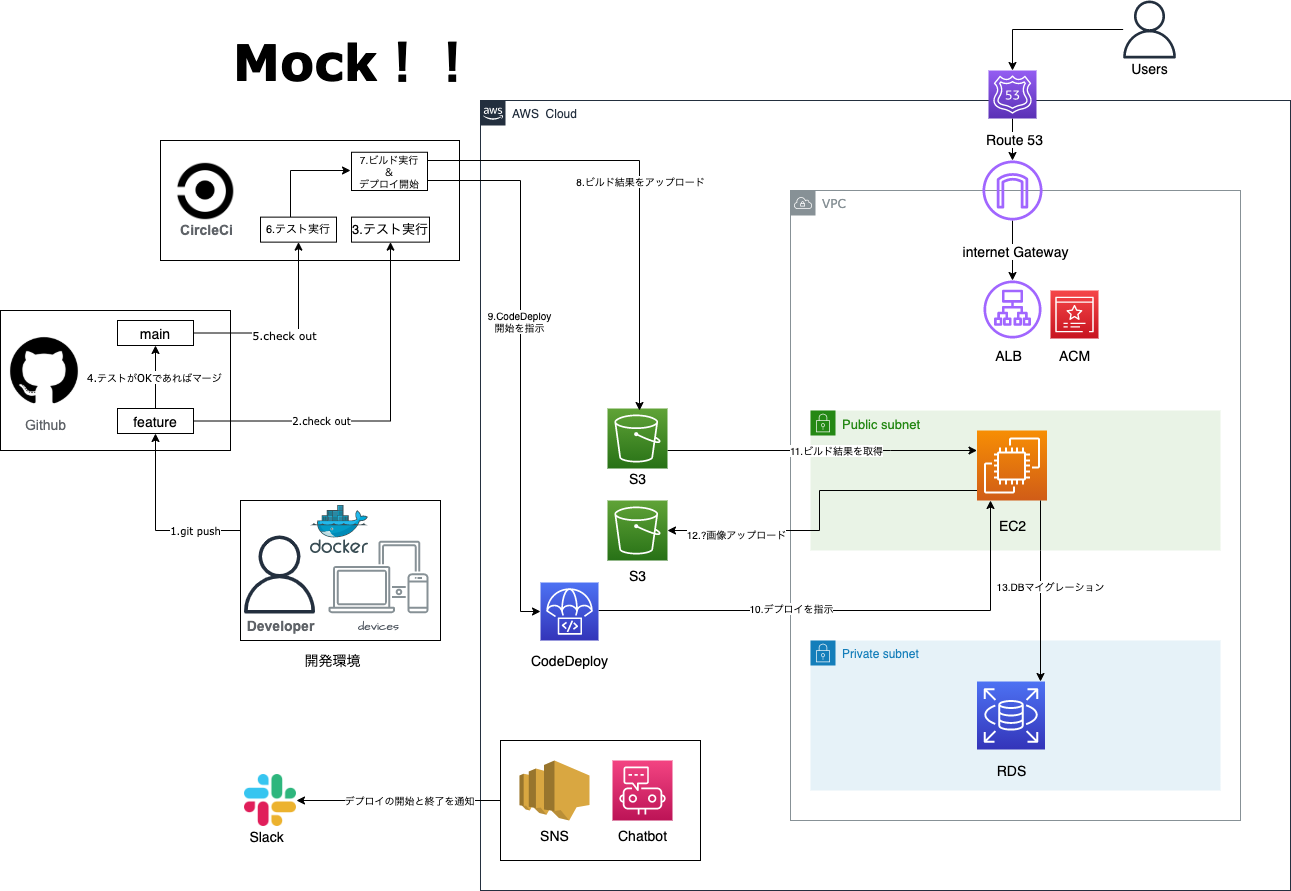
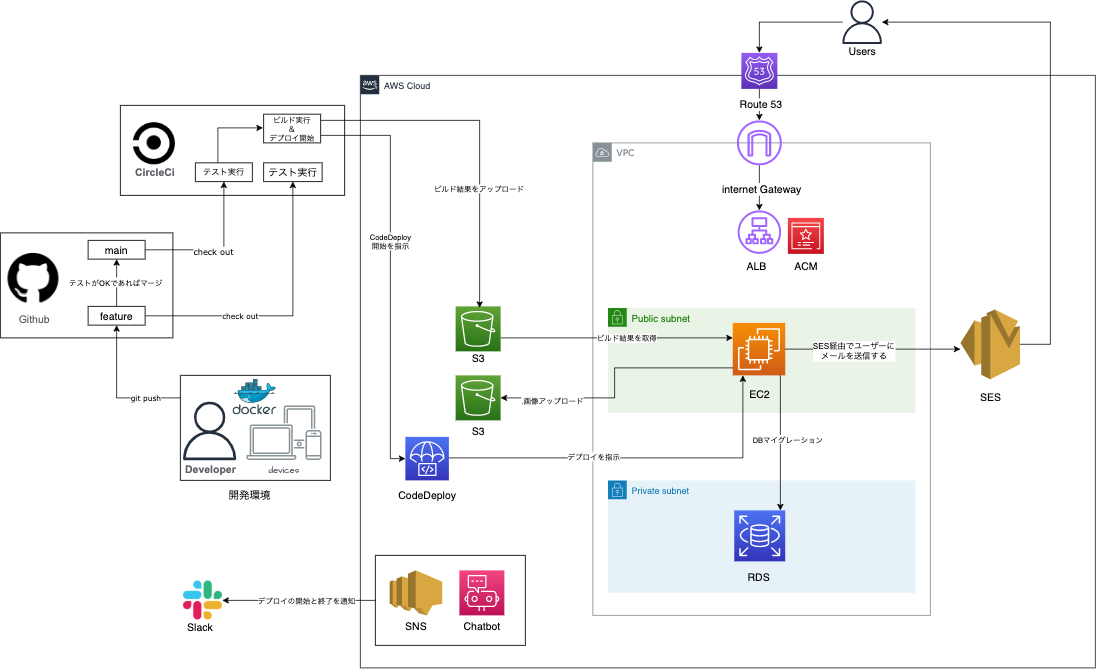
[docs]AWS構成図に修正

diff --git a/README.md b/README.md
@@ -52,8 +52,7 @@ URL: https://spoily.link/login
   - AWS(EC2, ALB, ACM, S3, RDS, CodeDeploy, SNS, Chatbot, CloudFormation, Route53, VPC, EIP, IAM, SES)
 
 ## AWS構成図
-![aws_diagram drawio](https://user-images.githubusercontent.com/36786134/163817739-e16ad22c-97af-45e4-9f5b-565ba5c6bd63.png)
-
+![aws_diagram](https://user-images.githubusercontent.com/36786134/167150616-39c4e8e8-a0cc-4783-be78-22c887c00014.png)
 
 ## 機能一覧
 - **アカウント登録関連**
@@ -109,7 +108,7 @@ URL: https://spoily.link/login
 | テーブル名 | 説明 |
 |:-:|:-:|
 | users  | 一般ユーザー情報  |
-| relationship | フォロー中/フォロワーのユーザー情報  |
+| follows | フォロー中/フォロワーのユーザー情報  |
 | recipes  | ユーザー投稿の情報  |
 | tags  | ユーザー投稿のタグ情報  |
 | recipes_tags  | recipeとtagsの中間テーブル  |
